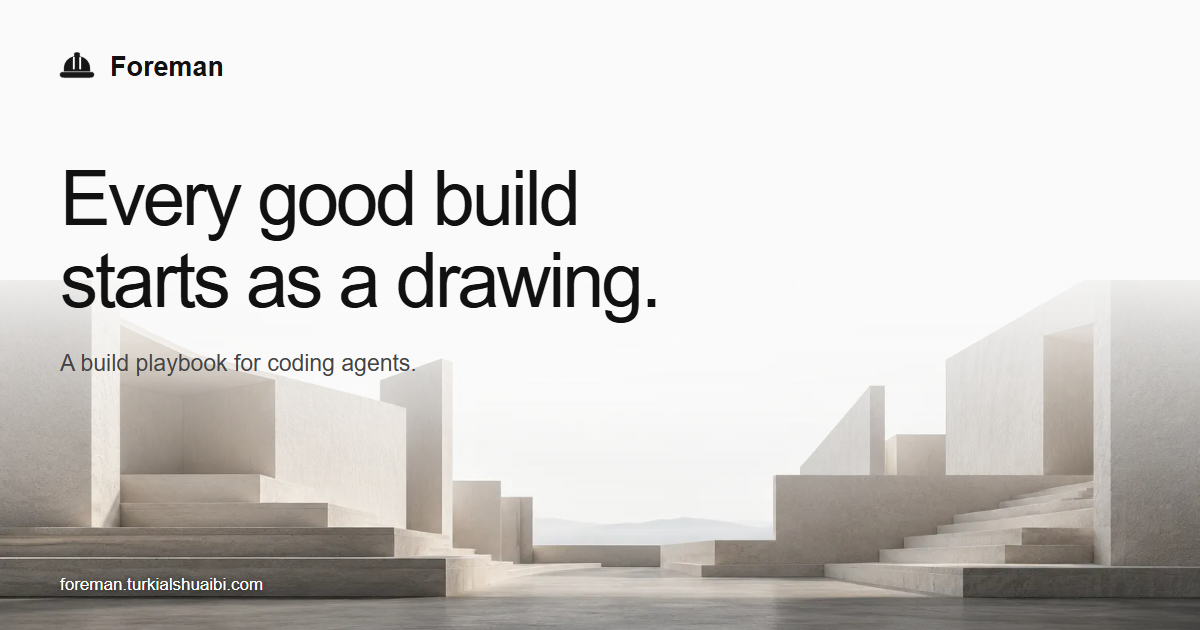
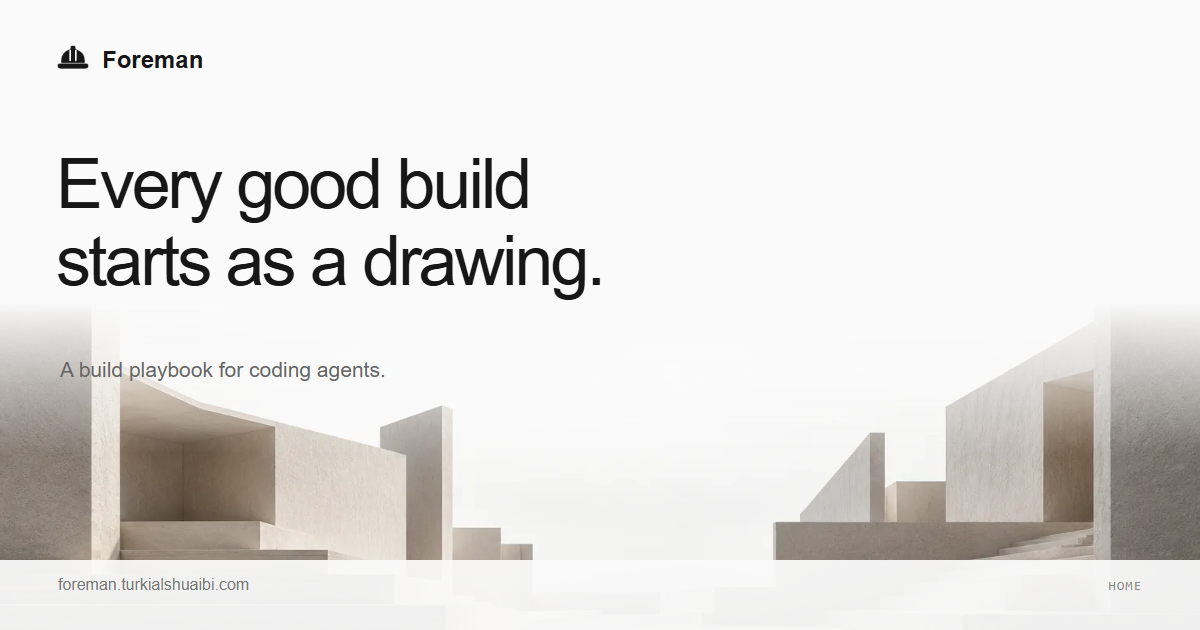
Give every social card distinct page-specific artwork (#7)
Replace reused landscape cards with distinct artwork for all 11 pages, update metadata and image URLs, and refresh preview provenance. Validated locally and in CI.

Changed region(s): [[0.0, 0.2413, 1.0, 1.0], [0.7708, 0.5127, 0.925, 0.6333], [0.0308, 0.0603, 0.185, 0.1206]]

diff --git a/docs/launch/index.html b/docs/launch/index.html
@@ -19,14 +19,14 @@
 <meta property="og:title" content="Launch a website: domain, DNS, SSL, indexing · Foreman">
 <meta property="og:description" content="Foreman&#x27;s launch tool takes a site built anywhere to live and found: domain, DNS, SSL, the share card, a real 404, the sitemap and Search Console, one step at a time.">
 <meta property="og:url" content="https://foreman.turkialshuaibi.com/launch/">
-<meta property="og:image" content="https://foreman.turkialshuaibi.com/og/launch.png">
+<meta property="og:image" content="https://foreman.turkialshuaibi.com/og/launch-v2.png">
 <meta property="og:image:width" content="1200">
 <meta property="og:image:height" content="630">
-<meta property="og:image:alt" content="Foreman&#x27;s launch tool: from finished to live and found.">
+<meta property="og:image:alt" content="A silver rocket crossing an orbital path beside a live status marker.">
 <meta name="twitter:card" content="summary_large_image">
 <meta name="twitter:title" content="Launch a website: domain, DNS, SSL, indexing · Foreman">
 <meta name="twitter:description" content="Foreman&#x27;s launch tool takes a site built anywhere to live and found: domain, DNS, SSL, the share card, a real 404, the sitemap and Search Console, one step at a time.">
-<meta name="twitter:image" content="https://foreman.turkialshuaibi.com/og/launch.png">
+<meta name="twitter:image" content="https://foreman.turkialshuaibi.com/og/launch-v2.png">
 <link rel="stylesheet" href="/site.css?v=3.0.1">
 <link rel="stylesheet" href="/opening.css?v=3.0.1">
 <link rel="stylesheet" href="/mono.css?v=3.0.1">
@@ -123,7 +123,7 @@
 
 <main id="main">
 <div class="band"><div class="wrap pagehead tool-pagehead"><p class="crumbs"><a href="/">Foreman</a><span>/</span><a href="/#toolbelt">Tools</a><span>/</span>Launch</p><div class="tool-heading"><svg class="tool-icon" viewBox="0 0 24 24" fill="none" stroke="currentColor" stroke-width="1.4" stroke-linecap="round" stroke-linejoin="round" aria-hidden="true"><path d="M14 4c2-1 4-1 6-1 0 2 0 4-1 6l-7 7-4-4 6-8Z"/><circle cx="16" cy="7" r="1.5"/><path d="m8 12-4 1 1-5 5-1m2 9-1 4 5-1 1-5M7 16c-2 0-3 2-3 4 2 0 4-1 4-3"/></svg><h1>Get the site online.</h1></div><p class="lede">Check hosting, domain settings, HTTPS, sharing previews, and search setup. Keep existing email records intact.</p><div class="copyrow"><pre id="cmd" tabindex="0"><span class="syntax-command">/foreman:launch</span></pre><button class="copy" type="button" data-for="cmd">Copy</button></div></div></div>
-<section class="tool-example"><div class="wrap"><div class="example-heading"><span class="example-label">Example handover</span><h2>More than a working homepage.</h2><p>The route to your site, the preview people share, and the pages around it.</p></div><div class="launch-route" aria-label="Domain routes to hosting, then serves the site over HTTPS"><div><span class="route-symbol">◎</span><small>Domain</small><strong>example.com</strong></div><span class="route-arrow" aria-hidden="true">→</span><div><span class="route-symbol">▤</span><small>Hosting</small><strong>Published build</strong></div><span class="route-arrow" aria-hidden="true">→</span><div><svg viewBox="0 0 24 24" fill="none" stroke="currentColor" stroke-width="1.4" aria-hidden="true"><rect x="5" y="10" width="14" height="11" rx="2"/><path d="M8 10V7a4 4 0 0 1 8 0v3"/></svg><small>HTTPS</small><strong>Secure connection</strong></div></div><div class="launch-previews"><article class="share-preview"><div class="example-label">When someone shares a link</div><img src="/og/home.png" width="1200" height="630" alt="Foreman homepage share card with its hard-hat mark and architectural scene" loading="lazy"><div class="share-caption"><small>foreman.turkialshuaibi.com</small><h3>Every good build starts as a drawing.</h3><p>A build playbook for coding agents.</p></div></article><div class="launch-support"><article class="error-preview"><span class="example-label">When an address is wrong</span><strong>404.</strong><p>Off the plans.</p><a class="action-link" href="/404.html">Open the error page ↗</a></article><article class="map-preview"><span class="example-label">What a crawler can find</span><div class="sitemap-tree"><b>/</b><span>├ /modes/</span><span>├ /board/</span><span>├ /palette/</span><span>└ /install/</span></div><a class="action-link" href="/sitemap.xml">Open the sitemap ↗</a></article></div></div></div></section>
+<section class="tool-example"><div class="wrap"><div class="example-heading"><span class="example-label">Example handover</span><h2>More than a working homepage.</h2><p>The route to your site, the preview people share, and the pages around it.</p></div><div class="launch-route" aria-label="Domain routes to hosting, then serves the site over HTTPS"><div><span class="route-symbol">◎</span><small>Domain</small><strong>example.com</strong></div><span class="route-arrow" aria-hidden="true">→</span><div><span class="route-symbol">▤</span><small>Hosting</small><strong>Published build</strong></div><span class="route-arrow" aria-hidden="true">→</span><div><svg viewBox="0 0 24 24" fill="none" stroke="currentColor" stroke-width="1.4" aria-hidden="true"><rect x="5" y="10" width="14" height="11" rx="2"/><path d="M8 10V7a4 4 0 0 1 8 0v3"/></svg><small>HTTPS</small><strong>Secure connection</strong></div></div><div class="launch-previews"><article class="share-preview"><div class="example-label">When someone shares a link</div><img src="/og/home-v2.png" width="1200" height="630" alt="Foreman homepage share card with its hard-hat mark and architectural scene" loading="lazy"><div class="share-caption"><small>foreman.turkialshuaibi.com</small><h3>Every good build starts as a drawing.</h3><p>A build playbook for coding agents.</p></div></article><div class="launch-support"><article class="error-preview"><span class="example-label">When an address is wrong</span><strong>404.</strong><p>Off the plans.</p><a class="action-link" href="/404.html">Open the error page ↗</a></article><article class="map-preview"><span class="example-label">What a crawler can find</span><div class="sitemap-tree"><b>/</b><span>├ /modes/</span><span>├ /board/</span><span>├ /palette/</span><span>└ /install/</span></div><a class="action-link" href="/sitemap.xml">Open the sitemap ↗</a></article></div></div></div></section>
 <section><div class="wrap tool-detail"><div class="head"><h2>What you get</h2><p>Use launch on its own or during a website build.</p><a class="action-link" href="https://github.com/Turki-Sh/Foreman/blob/main/plugins/foreman/skills/foreman/toolbelt/launch.md">Read the tool <span aria-hidden="true">↗</span></a></div><div class="deliverables"><div class="tool-deliverable"><span>01</span><div><h3>Connect</h3><p>Confirm the hosting target and DNS records before changing anything.</p></div></div><div class="tool-deliverable"><span>02</span><div><h3>Check</h3><p>HTTPS, redirects, the error page, links, and share previews.</p></div></div><div class="tool-deliverable"><span>03</span><div><h3>Index</h3><p>Sitemap, robots.txt, page metadata, and search console submission.</p></div></div></div></div></section>
 <section class="tight"><div class="wrap"><div class="head"><h2>Explore the other tools</h2></div><div class="others"><a href="/board/" data-tool="board"><svg class="tool-icon" viewBox="0 0 24 24" fill="none" stroke="currentColor" stroke-width="1.4" stroke-linecap="round" stroke-linejoin="round" aria-hidden="true"><rect x="3" y="3" width="7" height="7" rx="1.5"/><rect x="14" y="3" width="7" height="10" rx="1.5"/><rect x="3" y="14" width="7" height="7" rx="1.5"/><path d="M14 17h7m-7 4h4"/></svg><span class="t">Board</span><span class="d">Find a direction worth building.</span></a><a href="/punch-list/" data-tool="punch-list"><svg class="tool-icon" viewBox="0 0 24 24" fill="none" stroke="currentColor" stroke-width="1.4" stroke-linecap="round" stroke-linejoin="round" aria-hidden="true"><path d="M9 5h-2a2 2 0 0 0 -2 2v12a2 2 0 0 0 2 2h10a2 2 0 0 0 2 -2v-12a2 2 0 0 0 -2 -2h-2" />
   <path d="M9 5a2 2 0 0 1 2 -2h2a2 2 0 0 1 2 2a2 2 0 0 1 -2 2h-2a2 2 0 0 1 -2 -2" />

diff --git a/site/pages/launch.html b/site/pages/launch.html
@@ -3,12 +3,12 @@ title: Launch a website: domain, DNS, SSL, indexing · Foreman
 description: Foreman's launch tool takes a site built anywhere to live and found: domain, DNS, SSL, the share card, a real 404, the sitemap and Search Console, one step at a time.
 path: /launch/
 og: launch
-og_alt: Foreman's launch tool: from finished to live and found.
+og_alt: A silver rocket crossing an orbital path beside a live status marker.
 crumb: Launch
 priority: 0.8
 -->
 <div class="band"><div class="wrap pagehead tool-pagehead"><p class="crumbs"><a href="/">Foreman</a><span>/</span><a href="/#toolbelt">Tools</a><span>/</span>Launch</p><div class="tool-heading"><svg class="tool-icon" viewBox="0 0 24 24" fill="none" stroke="currentColor" stroke-width="1.4" stroke-linecap="round" stroke-linejoin="round" aria-hidden="true"><path d="M14 4c2-1 4-1 6-1 0 2 0 4-1 6l-7 7-4-4 6-8Z"/><circle cx="16" cy="7" r="1.5"/><path d="m8 12-4 1 1-5 5-1m2 9-1 4 5-1 1-5M7 16c-2 0-3 2-3 4 2 0 4-1 4-3"/></svg><h1>Get the site online.</h1></div><p class="lede">Check hosting, domain settings, HTTPS, sharing previews, and search setup. Keep existing email records intact.</p><div class="copyrow"><pre id="cmd" tabindex="0"><span class="syntax-command">/foreman:launch</span></pre><button class="copy" type="button" data-for="cmd">Copy</button></div></div></div>
-<section class="tool-example"><div class="wrap"><div class="example-heading"><span class="example-label">Example handover</span><h2>More than a working homepage.</h2><p>The route to your site, the preview people share, and the pages around it.</p></div><div class="launch-route" aria-label="Domain routes to hosting, then serves the site over HTTPS"><div><span class="route-symbol">◎</span><small>Domain</small><strong>example.com</strong></div><span class="route-arrow" aria-hidden="true">→</span><div><span class="route-symbol">▤</span><small>Hosting</small><strong>Published build</strong></div><span class="route-arrow" aria-hidden="true">→</span><div><svg viewBox="0 0 24 24" fill="none" stroke="currentColor" stroke-width="1.4" aria-hidden="true"><rect x="5" y="10" width="14" height="11" rx="2"/><path d="M8 10V7a4 4 0 0 1 8 0v3"/></svg><small>HTTPS</small><strong>Secure connection</strong></div></div><div class="launch-previews"><article class="share-preview"><div class="example-label">When someone shares a link</div><img src="/og/home.png" width="1200" height="630" alt="Foreman homepage share card with its hard-hat mark and architectural scene" loading="lazy"><div class="share-caption"><small>foreman.turkialshuaibi.com</small><h3>Every good build starts as a drawing.</h3><p>A build playbook for coding agents.</p></div></article><div class="launch-support"><article class="error-preview"><span class="example-label">When an address is wrong</span><strong>404.</strong><p>Off the plans.</p><a class="action-link" href="/404.html">Open the error page ↗</a></article><article class="map-preview"><span class="example-label">What a crawler can find</span><div class="sitemap-tree"><b>/</b><span>├ /modes/</span><span>├ /board/</span><span>├ /palette/</span><span>└ /install/</span></div><a class="action-link" href="/sitemap.xml">Open the sitemap ↗</a></article></div></div></div></section>
+<section class="tool-example"><div class="wrap"><div class="example-heading"><span class="example-label">Example handover</span><h2>More than a working homepage.</h2><p>The route to your site, the preview people share, and the pages around it.</p></div><div class="launch-route" aria-label="Domain routes to hosting, then serves the site over HTTPS"><div><span class="route-symbol">◎</span><small>Domain</small><strong>example.com</strong></div><span class="route-arrow" aria-hidden="true">→</span><div><span class="route-symbol">▤</span><small>Hosting</small><strong>Published build</strong></div><span class="route-arrow" aria-hidden="true">→</span><div><svg viewBox="0 0 24 24" fill="none" stroke="currentColor" stroke-width="1.4" aria-hidden="true"><rect x="5" y="10" width="14" height="11" rx="2"/><path d="M8 10V7a4 4 0 0 1 8 0v3"/></svg><small>HTTPS</small><strong>Secure connection</strong></div></div><div class="launch-previews"><article class="share-preview"><div class="example-label">When someone shares a link</div><img src="/og/home-v2.png" width="1200" height="630" alt="Foreman homepage share card with its hard-hat mark and architectural scene" loading="lazy"><div class="share-caption"><small>foreman.turkialshuaibi.com</small><h3>Every good build starts as a drawing.</h3><p>A build playbook for coding agents.</p></div></article><div class="launch-support"><article class="error-preview"><span class="example-label">When an address is wrong</span><strong>404.</strong><p>Off the plans.</p><a class="action-link" href="/404.html">Open the error page ↗</a></article><article class="map-preview"><span class="example-label">What a crawler can find</span><div class="sitemap-tree"><b>/</b><span>├ /modes/</span><span>├ /board/</span><span>├ /palette/</span><span>└ /install/</span></div><a class="action-link" href="/sitemap.xml">Open the sitemap ↗</a></article></div></div></div></section>
 <section><div class="wrap tool-detail"><div class="head"><h2>What you get</h2><p>Use launch on its own or during a website build.</p><a class="action-link" href="https://github.com/Turki-Sh/Foreman/blob/main/plugins/foreman/skills/foreman/toolbelt/launch.md">Read the tool <span aria-hidden="true">↗</span></a></div><div class="deliverables"><div class="tool-deliverable"><span>01</span><div><h3>Connect</h3><p>Confirm the hosting target and DNS records before changing anything.</p></div></div><div class="tool-deliverable"><span>02</span><div><h3>Check</h3><p>HTTPS, redirects, the error page, links, and share previews.</p></div></div><div class="tool-deliverable"><span>03</span><div><h3>Index</h3><p>Sitemap, robots.txt, page metadata, and search console submission.</p></div></div></div></div></section>
 <section class="tight"><div class="wrap"><div class="head"><h2>Explore the other tools</h2></div><div class="others"><a href="/board/" data-tool="board"><svg class="tool-icon" viewBox="0 0 24 24" fill="none" stroke="currentColor" stroke-width="1.4" stroke-linecap="round" stroke-linejoin="round" aria-hidden="true"><rect x="3" y="3" width="7" height="7" rx="1.5"/><rect x="14" y="3" width="7" height="10" rx="1.5"/><rect x="3" y="14" width="7" height="7" rx="1.5"/><path d="M14 17h7m-7 4h4"/></svg><span class="t">Board</span><span class="d">Find a direction worth building.</span></a><a href="/punch-list/" data-tool="punch-list"><svg class="tool-icon" viewBox="0 0 24 24" fill="none" stroke="currentColor" stroke-width="1.4" stroke-linecap="round" stroke-linejoin="round" aria-hidden="true"><path d="M9 5h-2a2 2 0 0 0 -2 2v12a2 2 0 0 0 2 2h10a2 2 0 0 0 2 -2v-12a2 2 0 0 0 -2 -2h-2" />
   <path d="M9 5a2 2 0 0 1 2 -2h2a2 2 0 0 1 2 2a2 2 0 0 1 -2 2h-2a2 2 0 0 1 -2 -2" />

diff --git a/bench/examples/dana-reference-guided/site/404.html b/bench/examples/dana-reference-guided/site/404.html
@@ -1,3 +1,3 @@
 <!doctype html><html lang="en"><head><meta charset="utf-8"><meta name="viewport" content="width=device-width,initial-scale=1"><meta name="robots" content="noindex"><title>Page not found · Dana Haddad</title><meta name="description" content="This page could not be found. Return to Dana Haddad's robotics portfolio."><link rel="icon" href="favicon.svg?v=2" type="image/svg+xml"><link rel="stylesheet" href="style.css"><link rel="canonical" href="https://foreman.turkialshuaibi.com/samples/dana-reference/404.html">
-<meta property="og:type" content="website"><meta property="og:title" content="Page not found · Dana Haddad"><meta property="og:description" content="Return to Dana Haddad’s robotics portfolio."><meta property="og:url" content="https://foreman.turkialshuaibi.com/samples/dana-reference/404.html"><meta property="og:image" content="https://foreman.turkialshuaibi.com/og/dana-404.png"><meta property="og:image:width" content="1200"><meta property="og:image:height" content="630"><meta property="og:image:alt" content="Page not found · Dana Haddad"><meta name="twitter:card" content="summary_large_image"><meta name="twitter:title" content="Page not found · Dana Haddad"><meta name="twitter:description" content="Return to Dana Haddad’s robotics portfolio."><meta name="twitter:image" content="https://foreman.turkialshuaibi.com/og/dana-404.png">
+<meta property="og:type" content="website"><meta property="og:title" content="Page not found · Dana Haddad"><meta property="og:description" content="Return to Dana Haddad’s robotics portfolio."><meta property="og:url" content="https://foreman.turkialshuaibi.com/samples/dana-reference/404.html"><meta property="og:image" content="https://foreman.turkialshuaibi.com/og/dana-404-v2.png"><meta property="og:image:width" content="1200"><meta property="og:image:height" content="630"><meta property="og:image:alt" content="A radar map with a broken dotted route, a missing target and the number 404."><meta name="twitter:card" content="summary_large_image"><meta name="twitter:title" content="Page not found · Dana Haddad"><meta name="twitter:description" content="Return to Dana Haddad’s robotics portfolio."><meta name="twitter:image" content="https://foreman.turkialshuaibi.com/og/dana-404-v2.png">
 </head><body><header class="research-nav"><a class="identity" href="./" aria-label="Dana Haddad home"><img src="mark.svg" width="42" height="42" alt=""><span>Dana Haddad<small>Robotics research</small></span></a><nav aria-label="Main navigation"><a href="./#research">Research</a><a href="./#about">About</a><a class="nav-contact" href="mailto:dana.haddad@example.org">Contact <span aria-hidden="true">↗</span></a></nav></header><main class="not-found"><h1>Page not found.</h1><p>There is nothing at this address. The research is one click away.</p><a class="primary" href="./">Back to the portfolio ↗</a></main><footer><a href="./">Dana Haddad</a><p>Robotics research</p><a href="mailto:dana.haddad@example.org">Email me ↗</a></footer></body></html>

diff --git a/docs/samples/dana-reference/404.html b/docs/samples/dana-reference/404.html
@@ -1,3 +1,3 @@
 <!doctype html><html lang="en"><head><meta charset="utf-8"><meta name="viewport" content="width=device-width,initial-scale=1"><meta name="robots" content="noindex"><title>Page not found · Dana Haddad</title><meta name="description" content="This page could not be found. Return to Dana Haddad's robotics portfolio."><link rel="icon" href="favicon.svg?v=2" type="image/svg+xml"><link rel="stylesheet" href="style.css"><link rel="canonical" href="https://foreman.turkialshuaibi.com/samples/dana-reference/404.html">
-<meta property="og:type" content="website"><meta property="og:title" content="Page not found · Dana Haddad"><meta property="og:description" content="Return to Dana Haddad’s robotics portfolio."><meta property="og:url" content="https://foreman.turkialshuaibi.com/samples/dana-reference/404.html"><meta property="og:image" content="https://foreman.turkialshuaibi.com/og/dana-404.png"><meta property="og:image:width" content="1200"><meta property="og:image:height" content="630"><meta property="og:image:alt" content="Page not found · Dana Haddad"><meta name="twitter:card" content="summary_large_image"><meta name="twitter:title" content="Page not found · Dana Haddad"><meta name="twitter:description" content="Return to Dana Haddad’s robotics portfolio."><meta name="twitter:image" content="https://foreman.turkialshuaibi.com/og/dana-404.png">
+<meta property="og:type" content="website"><meta property="og:title" content="Page not found · Dana Haddad"><meta property="og:description" content="Return to Dana Haddad’s robotics portfolio."><meta property="og:url" content="https://foreman.turkialshuaibi.com/samples/dana-reference/404.html"><meta property="og:image" content="https://foreman.turkialshuaibi.com/og/dana-404-v2.png"><meta property="og:image:width" content="1200"><meta property="og:image:height" content="630"><meta property="og:image:alt" content="A radar map with a broken dotted route, a missing target and the number 404."><meta name="twitter:card" content="summary_large_image"><meta name="twitter:title" content="Page not found · Dana Haddad"><meta name="twitter:description" content="Return to Dana Haddad’s robotics portfolio."><meta name="twitter:image" content="https://foreman.turkialshuaibi.com/og/dana-404-v2.png">
 </head><body><header class="research-nav"><a class="identity" href="./" aria-label="Dana Haddad home"><img src="mark.svg" width="42" height="42" alt=""><span>Dana Haddad<small>Robotics research</small></span></a><nav aria-label="Main navigation"><a href="./#research">Research</a><a href="./#about">About</a><a class="nav-contact" href="mailto:dana.haddad@example.org">Contact <span aria-hidden="true">↗</span></a></nav></header><main class="not-found"><h1>Page not found.</h1><p>There is nothing at this address. The research is one click away.</p><a class="primary" href="./">Back to the portfolio ↗</a></main><footer><a href="./">Dana Haddad</a><p>Robotics research</p><a href="mailto:dana.haddad@example.org">Email me ↗</a></footer></body></html>

diff --git a/bench/examples/dana-reference-guided/site/index.html b/bench/examples/dana-reference-guided/site/index.html
@@ -7,7 +7,7 @@
 <meta name="theme-color" content="#000000">
 <link rel="icon" type="image/svg+xml" href="favicon.svg?v=2"><link rel="stylesheet" href="style.css">
 <link rel="canonical" href="https://foreman.turkialshuaibi.com/samples/dana-reference/">
-<meta property="og:type" content="website"><meta property="og:title" content="Dana Haddad · Robotics research"><meta property="og:description" content="Robotics research: system identification and transfer from simulation to hardware."><meta property="og:url" content="https://foreman.turkialshuaibi.com/samples/dana-reference/"><meta property="og:image" content="https://foreman.turkialshuaibi.com/og/dana.png"><meta property="og:image:width" content="1200"><meta property="og:image:height" content="630"><meta property="og:image:alt" content="Dana Haddad · Robotics research"><meta name="twitter:card" content="summary_large_image"><meta name="twitter:title" content="Dana Haddad · Robotics research"><meta name="twitter:description" content="Robotics research: system identification and transfer from simulation to hardware."><meta name="twitter:image" content="https://foreman.turkialshuaibi.com/og/dana.png">
+<meta property="og:type" content="website"><meta property="og:title" content="Dana Haddad · Robotics research"><meta property="og:description" content="Robotics research: system identification and transfer from simulation to hardware."><meta property="og:url" content="https://foreman.turkialshuaibi.com/samples/dana-reference/"><meta property="og:image" content="https://foreman.turkialshuaibi.com/og/dana-v2.png"><meta property="og:image:width" content="1200"><meta property="og:image:height" content="630"><meta property="og:image:alt" content="Dana Haddad with a black humanoid robot and fine circular research guides."><meta name="twitter:card" content="summary_large_image"><meta name="twitter:title" content="Dana Haddad · Robotics research"><meta name="twitter:description" content="Robotics research: system identification and transfer from simulation to hardware."><meta name="twitter:image" content="https://foreman.turkialshuaibi.com/og/dana-v2.png">
 <meta name="robots" content="noindex, follow">
 </head>
 <body>

diff --git a/docs/samples/dana-reference/index.html b/docs/samples/dana-reference/index.html
@@ -7,7 +7,7 @@
 <meta name="theme-color" content="#000000">
 <link rel="icon" type="image/svg+xml" href="favicon.svg?v=2"><link rel="stylesheet" href="style.css">
 <link rel="canonical" href="https://foreman.turkialshuaibi.com/samples/dana-reference/">
-<meta property="og:type" content="website"><meta property="og:title" content="Dana Haddad · Robotics research"><meta property="og:description" content="Robotics research: system identification and transfer from simulation to hardware."><meta property="og:url" content="https://foreman.turkialshuaibi.com/samples/dana-reference/"><meta property="og:image" content="https://foreman.turkialshuaibi.com/og/dana.png"><meta property="og:image:width" content="1200"><meta property="og:image:height" content="630"><meta property="og:image:alt" content="Dana Haddad · Robotics research"><meta name="twitter:card" content="summary_large_image"><meta name="twitter:title" content="Dana Haddad · Robotics research"><meta name="twitter:description" content="Robotics research: system identification and transfer from simulation to hardware."><meta name="twitter:image" content="https://foreman.turkialshuaibi.com/og/dana.png">
+<meta property="og:type" content="website"><meta property="og:title" content="Dana Haddad · Robotics research"><meta property="og:description" content="Robotics research: system identification and transfer from simulation to hardware."><meta property="og:url" content="https://foreman.turkialshuaibi.com/samples/dana-reference/"><meta property="og:image" content="https://foreman.turkialshuaibi.com/og/dana-v2.png"><meta property="og:image:width" content="1200"><meta property="og:image:height" content="630"><meta property="og:image:alt" content="Dana Haddad with a black humanoid robot and fine circular research guides."><meta name="twitter:card" content="summary_large_image"><meta name="twitter:title" content="Dana Haddad · Robotics research"><meta name="twitter:description" content="Robotics research: system identification and transfer from simulation to hardware."><meta name="twitter:image" content="https://foreman.turkialshuaibi.com/og/dana-v2.png">
 <meta name="robots" content="noindex, follow">
 </head>
 <body>

diff --git a/docs/index.html b/docs/index.html
@@ -19,14 +19,14 @@
 <meta property="og:title" content="Foreman by Turki Alshuaibi · Build playbook for coding agents">
 <meta property="og:description" content="Foreman makes your coding agent interview you, lock a visual system, and write the brief before any code, then ship and index the site. Free, markdown only.">
 <meta property="og:url" content="https://foreman.turkialshuaibi.com/">
-<meta property="og:image" content="https://foreman.turkialshuaibi.com/og/home.png">
+<meta property="og:image" content="https://foreman.turkialshuaibi.com/og/home-v2.png">
 <meta property="og:image:width" content="1200">
 <meta property="og:image:height" content="630">
-<meta property="og:image:alt" content="Foreman: every good build starts as a drawing.">
+<meta property="og:image:alt" content="Foreman with a pale architectural model of stepped buildings.">
 <meta name="twitter:card" content="summary_large_image">
 <meta name="twitter:title" content="Foreman by Turki Alshuaibi · Build playbook for coding agents">
 <meta name="twitter:description" content="Foreman makes your coding agent interview you, lock a visual system, and write the brief before any code, then ship and index the site. Free, markdown only.">
-<meta name="twitter:image" content="https://foreman.turkialshuaibi.com/og/home.png">
+<meta name="twitter:image" content="https://foreman.turkialshuaibi.com/og/home-v2.png">
 <link rel="stylesheet" href="/site.css?v=3.0.1">
 <link rel="stylesheet" href="/opening.css?v=3.0.1">
 <link rel="stylesheet" href="/mono.css?v=3.0.1">
@@ -94,7 +94,7 @@
       "downloadUrl": "https://github.com/Turki-Sh/Foreman/raw/main/dist/foreman.skill",
       "installUrl": "https://foreman.turkialshuaibi.com/install/",
       "screenshot": "https://foreman.turkialshuaibi.com/screenshot.png",
-      "image": "https://foreman.turkialshuaibi.com/og/home.png",
+      "image": "https://foreman.turkialshuaibi.com/og/home-v2.png",
       "featureList": [
         "Survey, Blueprint and Stress test modes",
         "Board: a reference board chosen for the brief",

diff --git a/docs/punch-list/index.html b/docs/punch-list/index.html
@@ -19,14 +19,14 @@
 <meta property="og:title" content="Punch list: why your site looks AI-generated · Foreman">
 <meta property="og:description" content="Point Foreman&#x27;s punch list at any URL, project or screenshot. It lists every dead button, missing state, metadata gap and generated-page tell, ranked, with a fix for each.">
 <meta property="og:url" content="https://foreman.turkialshuaibi.com/punch-list/">
-<meta property="og:image" content="https://foreman.turkialshuaibi.com/og/punch-list.png">
+<meta property="og:image" content="https://foreman.turkialshuaibi.com/og/punch-list-v2.png">
 <meta property="og:image:width" content="1200">
 <meta property="og:image:height" content="630">
-<meta property="og:image:alt" content="Foreman&#x27;s punch list: why your site looks AI-made, item by item.">
+<meta property="og:image:alt" content="A browser mockup annotated with focus-state and image-contrast findings.">
 <meta name="twitter:card" content="summary_large_image">
 <meta name="twitter:title" content="Punch list: why your site looks AI-generated · Foreman">
 <meta name="twitter:description" content="Point Foreman&#x27;s punch list at any URL, project or screenshot. It lists every dead button, missing state, metadata gap and generated-page tell, ranked, with a fix for each.">
-<meta name="twitter:image" content="https://foreman.turkialshuaibi.com/og/punch-list.png">
+<meta name="twitter:image" content="https://foreman.turkialshuaibi.com/og/punch-list-v2.png">
 <link rel="stylesheet" href="/site.css?v=3.0.1">
 <link rel="stylesheet" href="/opening.css?v=3.0.1">
 <link rel="stylesheet" href="/mono.css?v=3.0.1">

diff --git a/docs/modes/index.html b/docs/modes/index.html
@@ -19,14 +19,14 @@
 <meta property="og:title" content="Survey, Blueprint, Stress test · Foreman&#x27;s three modes">
 <meta property="og:description" content="Foreman runs at three depths. Survey researches instead of asking, Blueprint is the full interview, Stress test pushes every answer once. Every decision is made in all three.">
 <meta property="og:url" content="https://foreman.turkialshuaibi.com/modes/">
-<meta property="og:image" content="https://foreman.turkialshuaibi.com/og/modes.png">
+<meta property="og:image" content="https://foreman.turkialshuaibi.com/og/modes-v2.png">
 <meta property="og:image:width" content="1200">
 <meta property="og:image:height" content="630">
-<meta property="og:image:alt" content="Foreman&#x27;s three modes: Survey, Blueprint, Stress test.">
+<meta property="og:image:alt" content="Three branching paths lead to distinct Survey, Blueprint and Stress test panels.">
 <meta name="twitter:card" content="summary_large_image">
 <meta name="twitter:title" content="Survey, Blueprint, Stress test · Foreman&#x27;s three modes">
 <meta name="twitter:description" content="Foreman runs at three depths. Survey researches instead of asking, Blueprint is the full interview, Stress test pushes every answer once. Every decision is made in all three.">
-<meta name="twitter:image" content="https://foreman.turkialshuaibi.com/og/modes.png">
+<meta name="twitter:image" content="https://foreman.turkialshuaibi.com/og/modes-v2.png">
 <link rel="stylesheet" href="/site.css?v=3.0.1">
 <link rel="stylesheet" href="/opening.css?v=3.0.1">
 <link rel="stylesheet" href="/mono.css?v=3.0.1">

diff --git a/docs/palette/index.html b/docs/palette/index.html
@@ -19,14 +19,14 @@
 <meta property="og:title" content="Website colour palette from a real material · Foreman">
 <meta property="og:description" content="Foreman&#x27;s palette tool turns a material you name into three website palettes that differ on ground, accent and contrast, every pair measured, shown on your real content.">
 <meta property="og:url" content="https://foreman.turkialshuaibi.com/palette/">
-<meta property="og:image" content="https://foreman.turkialshuaibi.com/og/palette.png">
+<meta property="og:image" content="https://foreman.turkialshuaibi.com/og/palette-v2.png">
 <meta property="og:image:width" content="1200">
 <meta property="og:image:height" content="630">
-<meta property="og:image:alt" content="Foreman&#x27;s palette tool: colours from something real.">
+<meta property="og:image:alt" content="A fan of stone, sand, chalk, lilac and graphite colour swatches.">
 <meta name="twitter:card" content="summary_large_image">
 <meta name="twitter:title" content="Website colour palette from a real material · Foreman">
 <meta name="twitter:description" content="Foreman&#x27;s palette tool turns a material you name into three website palettes that differ on ground, accent and contrast, every pair measured, shown on your real content.">
-<meta name="twitter:image" content="https://foreman.turkialshuaibi.com/og/palette.png">
+<meta name="twitter:image" content="https://foreman.turkialshuaibi.com/og/palette-v2.png">
 <link rel="stylesheet" href="/site.css?v=3.0.1">
 <link rel="stylesheet" href="/opening.css?v=3.0.1">
 <link rel="stylesheet" href="/mono.css?v=3.0.1">

diff --git a/docs/install/index.html b/docs/install/index.html
@@ -19,14 +19,14 @@
 <meta property="og:title" content="Install Foreman in Claude Code, Cursor, Codex and more">
 <meta property="og:description" content="Install Foreman in Claude Code with two commands, or copy one folder of markdown into Cursor, Windsurf, Codex, Copilot, Gemini CLI or the Claude apps.">
 <meta property="og:url" content="https://foreman.turkialshuaibi.com/install/">
-<meta property="og:image" content="https://foreman.turkialshuaibi.com/og/install.png">
+<meta property="og:image" content="https://foreman.turkialshuaibi.com/og/install-v2.png">
 <meta property="og:image:width" content="1200">
 <meta property="og:image:height" content="630">
-<meta property="og:image:alt" content="Install Foreman: one folder of markdown, anywhere an agent reads files.">
+<meta property="og:image:alt" content="A silver folder containing SKILL.md beside a terminal ready to run Foreman.">
 <meta name="twitter:card" content="summary_large_image">
 <meta name="twitter:title" content="Install Foreman in Claude Code, Cursor, Codex and more">
 <meta name="twitter:description" content="Install Foreman in Claude Code with two commands, or copy one folder of markdown into Cursor, Windsurf, Codex, Copilot, Gemini CLI or the Claude apps.">
-<meta name="twitter:image" content="https://foreman.turkialshuaibi.com/og/install.png">
+<meta name="twitter:image" content="https://foreman.turkialshuaibi.com/og/install-v2.png">
 <link rel="stylesheet" href="/site.css?v=3.0.1">
 <link rel="stylesheet" href="/opening.css?v=3.0.1">
 <link rel="stylesheet" href="/mono.css?v=3.0.1">

diff --git a/docs/board/index.html b/docs/board/index.html
@@ -19,14 +19,14 @@
 <meta property="og:title" content="Reference board for your website · Foreman">
 <meta property="og:description" content="Foreman&#x27;s board finds real sites for your brief, as a list or a visual board with screenshots, and turns the ones you keep into principles you can build from.">
 <meta property="og:url" content="https://foreman.turkialshuaibi.com/board/">
-<meta property="og:image" content="https://foreman.turkialshuaibi.com/og/board.png">
+<meta property="og:image" content="https://foreman.turkialshuaibi.com/og/board-v2.png">
 <meta property="og:image:width" content="1200">
 <meta property="og:image:height" content="630">
-<meta property="og:image:alt" content="Foreman&#x27;s board: references chosen for your brief.">
+<meta property="og:image:alt" content="A reference collage of architecture, typography and material swatches.">
 <meta name="twitter:card" content="summary_large_image">
 <meta name="twitter:title" content="Reference board for your website · Foreman">
 <meta name="twitter:description" content="Foreman&#x27;s board finds real sites for your brief, as a list or a visual board with screenshots, and turns the ones you keep into principles you can build from.">
-<meta name="twitter:image" content="https://foreman.turkialshuaibi.com/og/board.png">
+<meta name="twitter:image" content="https://foreman.turkialshuaibi.com/og/board-v2.png">
 <link rel="stylesheet" href="/site.css?v=3.0.1">
 <link rel="stylesheet" href="/opening.css?v=3.0.1">
 <link rel="stylesheet" href="/mono.css?v=3.0.1">
